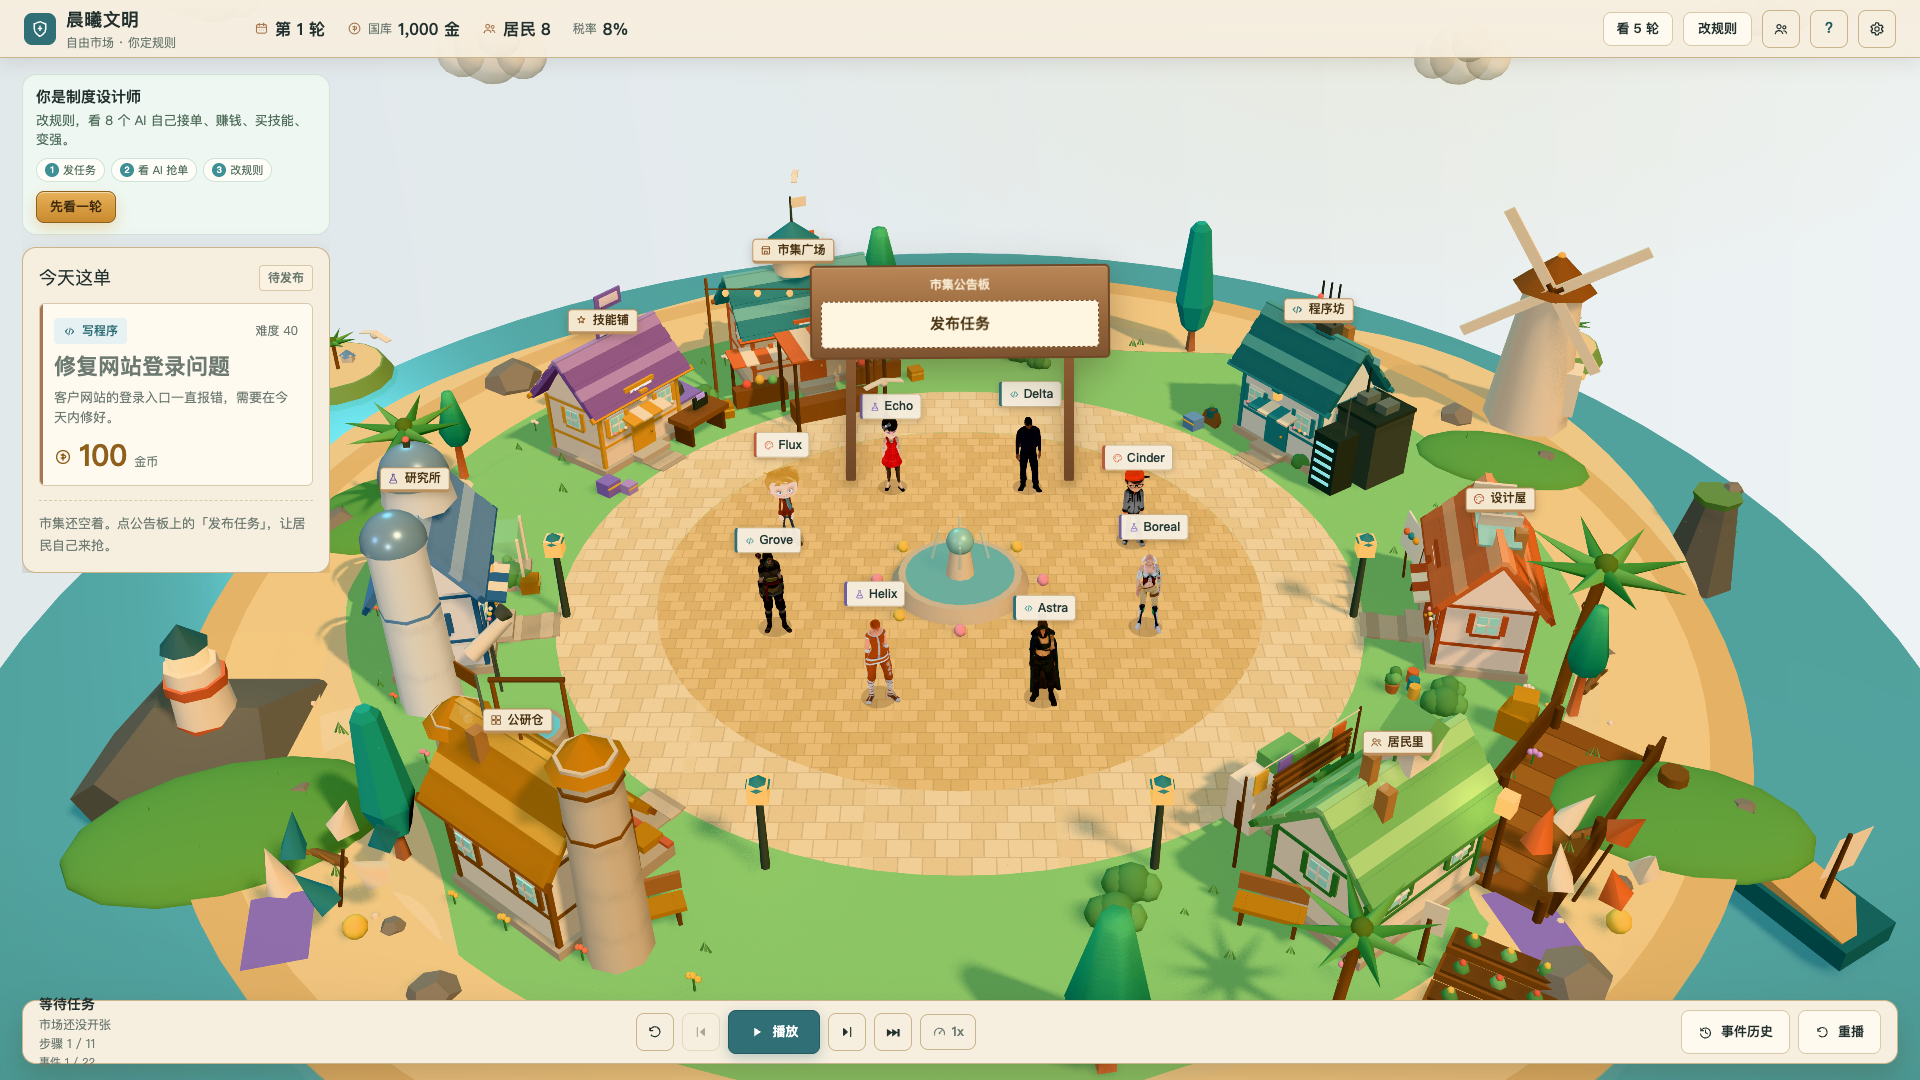
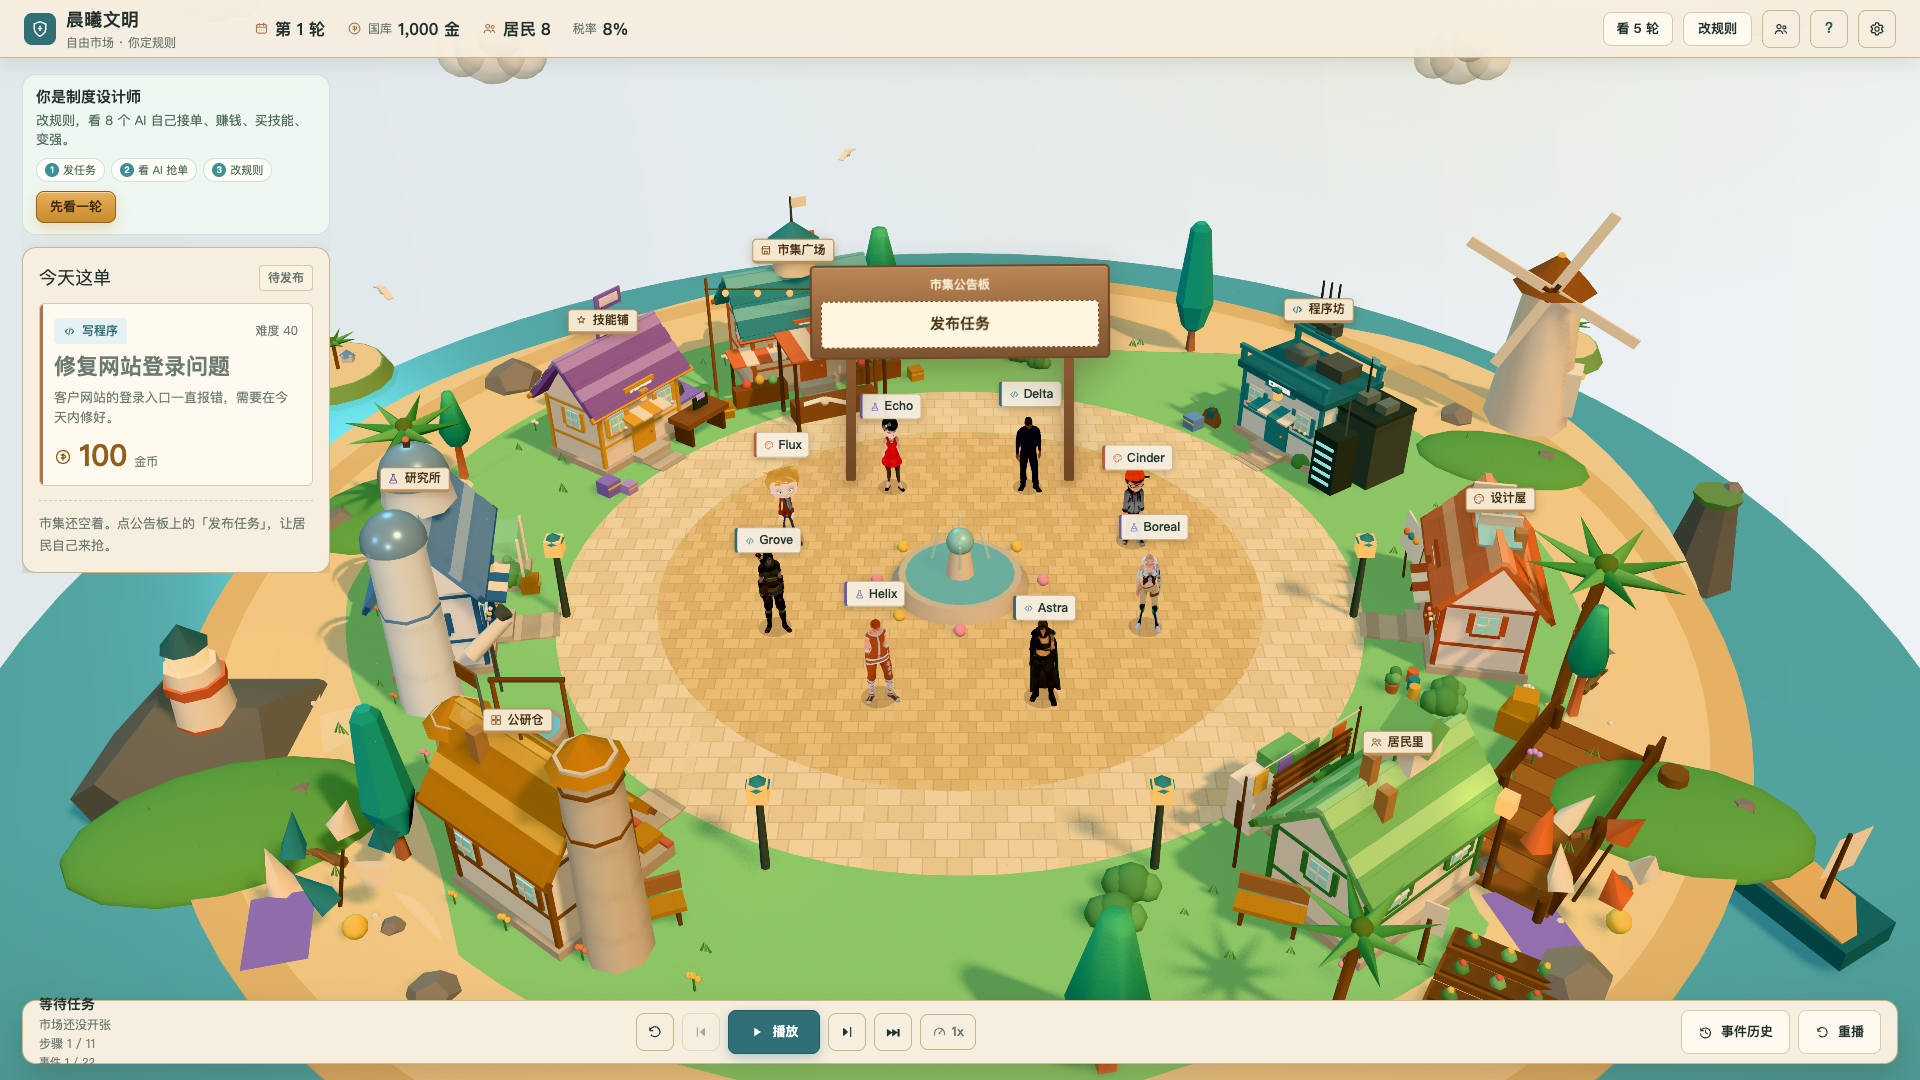
feat(visual): flat-roof coding workshop with rooftop plant

diff --git a/packages/web/src/game/CozyBuilding.tsx b/packages/web/src/game/CozyBuilding.tsx
@@ -144,6 +144,7 @@ function ChimneySmoke({ x, y, z }: { x: number; y: number; z: number }) {
 
 export function CozyBuilding({ role, height, width }: { role: BuildingRole; height: number; width: number }) {
   const s = STYLE[role];
+  const flatRoof = role === 'coding';
   const signTexture = useMemo(() => makeSignTexture(role), [role]);
   const w = width;
   const d = width * 0.68;
@@ -224,6 +225,8 @@ export function CozyBuilding({ role, height, width }: { role: BuildingRole; heig
         <planeGeometry args={[0.62, 0.115]} />
         <meshBasicMaterial map={signTexture} transparent />
       </mesh>
+      {!flatRoof && (
+        <>
       {/* gable ends */}
       <mesh geometry={gable}>
         <meshStandardMaterial color={s.wall} roughness={0.95} side={DoubleSide} />
@@ -257,8 +260,25 @@ export function CozyBuilding({ role, height, width }: { role: BuildingRole; heig
       ))}
       {/* ridge */}
       <Box size={[w + 0.6, 0.09, 0.12]} position={[0, peak + 0.03, 0]} color={s.roofAlt} />
+        </>
+      )}
+      {flatRoof && (
+        <group>
+          <Box size={[w + 0.26, 0.14, d + 0.26]} position={[0, wallTop + 0.07, 0]} color={s.roof} />
+          {[
+            [-w / 2 - 0.05, 0, d / 2 + 0.05], [w / 2 + 0.05, 0, d / 2 + 0.05],
+            [-w / 2 - 0.05, 0, -d / 2 - 0.05], [w / 2 + 0.05, 0, -d / 2 - 0.05],
+          ].map(([x, , z], i) => (
+            <Box key={i} size={[0.1, 0.42, 0.1]} position={[x, wallTop + 0.28, z]} color={s.trim} />
+          ))}
+          <Box size={[w + 0.3, 0.1, 0.1]} position={[0, wallTop + 0.46, d / 2 + 0.05]} color={s.trim} />
+          <Box size={[w + 0.3, 0.1, 0.1]} position={[0, wallTop + 0.46, -d / 2 - 0.05]} color={s.trim} />
+          <Box size={[0.7, 0.35, 0.6]} position={[0.45, wallTop + 0.25, -0.35]} color="#59645f" />
+          <Box size={[0.55, 0.3, 0.45]} position={[-0.45, wallTop + 0.22, -0.2]} color="#6f7d76" />
+        </group>
+      )}
       {/* role toppers */}
-      {role === 'coding' && (
+      {role === 'coding' && !flatRoof && (
         <group position={[0, peak + 0.1, 0]}>
           <mesh position={[0, 0.3, 0]} castShadow>
             <cylinderGeometry args={[0.018, 0.028, 0.6, 5]} />
@@ -315,7 +335,7 @@ export function CozyBuilding({ role, height, width }: { role: BuildingRole; heig
         </group>
       )}
       {/* eave trim */}
-      {[-1, 1].map((side) => (
+      {!flatRoof && [-1, 1].map((side) => (
         <Box
           key={`eave-${side}`}
           size={[w + 0.68, 0.08, 0.12]}
@@ -341,8 +361,12 @@ export function CozyBuilding({ role, height, width }: { role: BuildingRole; heig
         <meshStandardMaterial color={s.roofAlt} roughness={0.4} metalness={0.2} />
       </mesh>
       {/* chimney + smoke */}
-      <Box size={[0.2, 0.5, 0.2]} position={[w * 0.25, peak - 0.08, -d * 0.22]} color="#b98d60" />
-      <ChimneySmoke x={w * 0.25} y={peak + 0.18} z={-d * 0.22} />
+      {!flatRoof && (
+        <>
+          <Box size={[0.2, 0.5, 0.2]} position={[w * 0.25, peak - 0.08, -d * 0.22]} color="#b98d60" />
+          <ChimneySmoke x={w * 0.25} y={peak + 0.18} z={-d * 0.22} />
+        </>
+      )}
     </group>
   );
 }

diff --git a/docs/ISLAND_BUILDINGS.md b/docs/ISLAND_BUILDINGS.md
@@ -91,6 +91,10 @@
 - 每栋建筑门头加角色招牌（市集/技能/程序/研究/设计/公研/居民）
 - 风车地标保留
 
+## 第十二版：程序坊平屋顶
+
+- 程序坊改成平屋顶 + 女儿墙 + 空调机组/服务器箱，不再和民居同屋顶
+
 ## 限制
 
 - 建筑主体仍是同一套 cottage 几何，靠屋顶标志/功能道具区分
